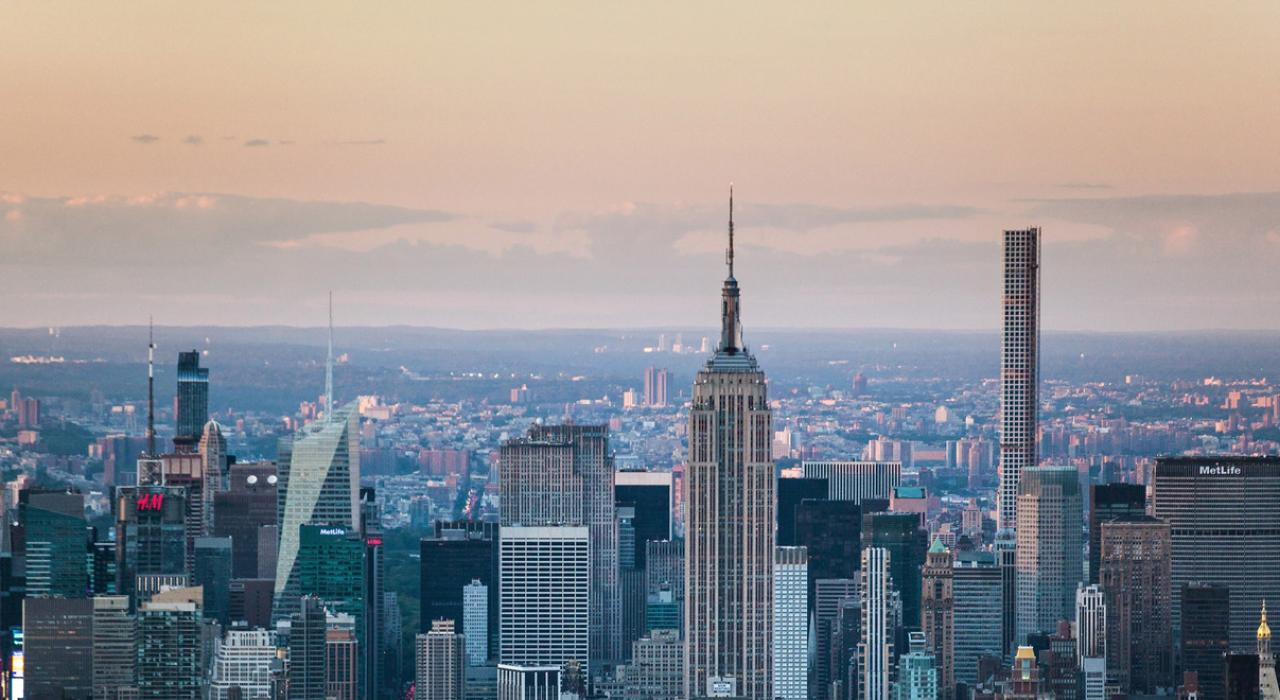
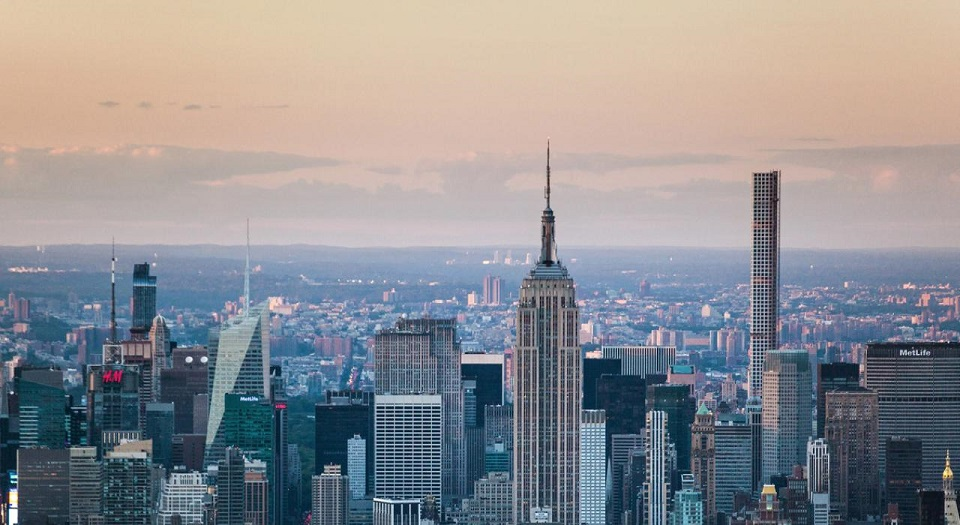
Add files via upload

Changed region(s): [[0.4062, 0.7924, 0.4688, 0.9143], [0.8438, 0.8533, 0.875, 0.9143], [0.625, 0.6705, 0.6875, 0.701]]

diff --git a/Aula 3/index.html b/Aula 3/index.html
@@ -14,11 +14,10 @@
     <br>
     <hr>
     <h2>Foto da cidade Nova York</h2>
-    <img src="NY.jpeg" alt="Cidade de Nova York-EUA">
     <picture>
        <source media="(max-width:760px)" srcset="NY-p.jpeg">
        <source media="(min-width:768px)" srcset="NY-g.jpeg">
-       <img src="NY.jpeg" alt="Cidade de Nova York" width="100%">
+       <img src="NY.jpeg" alt="Cidade de Nova York">
     </picture>
 </body>
 </html>
